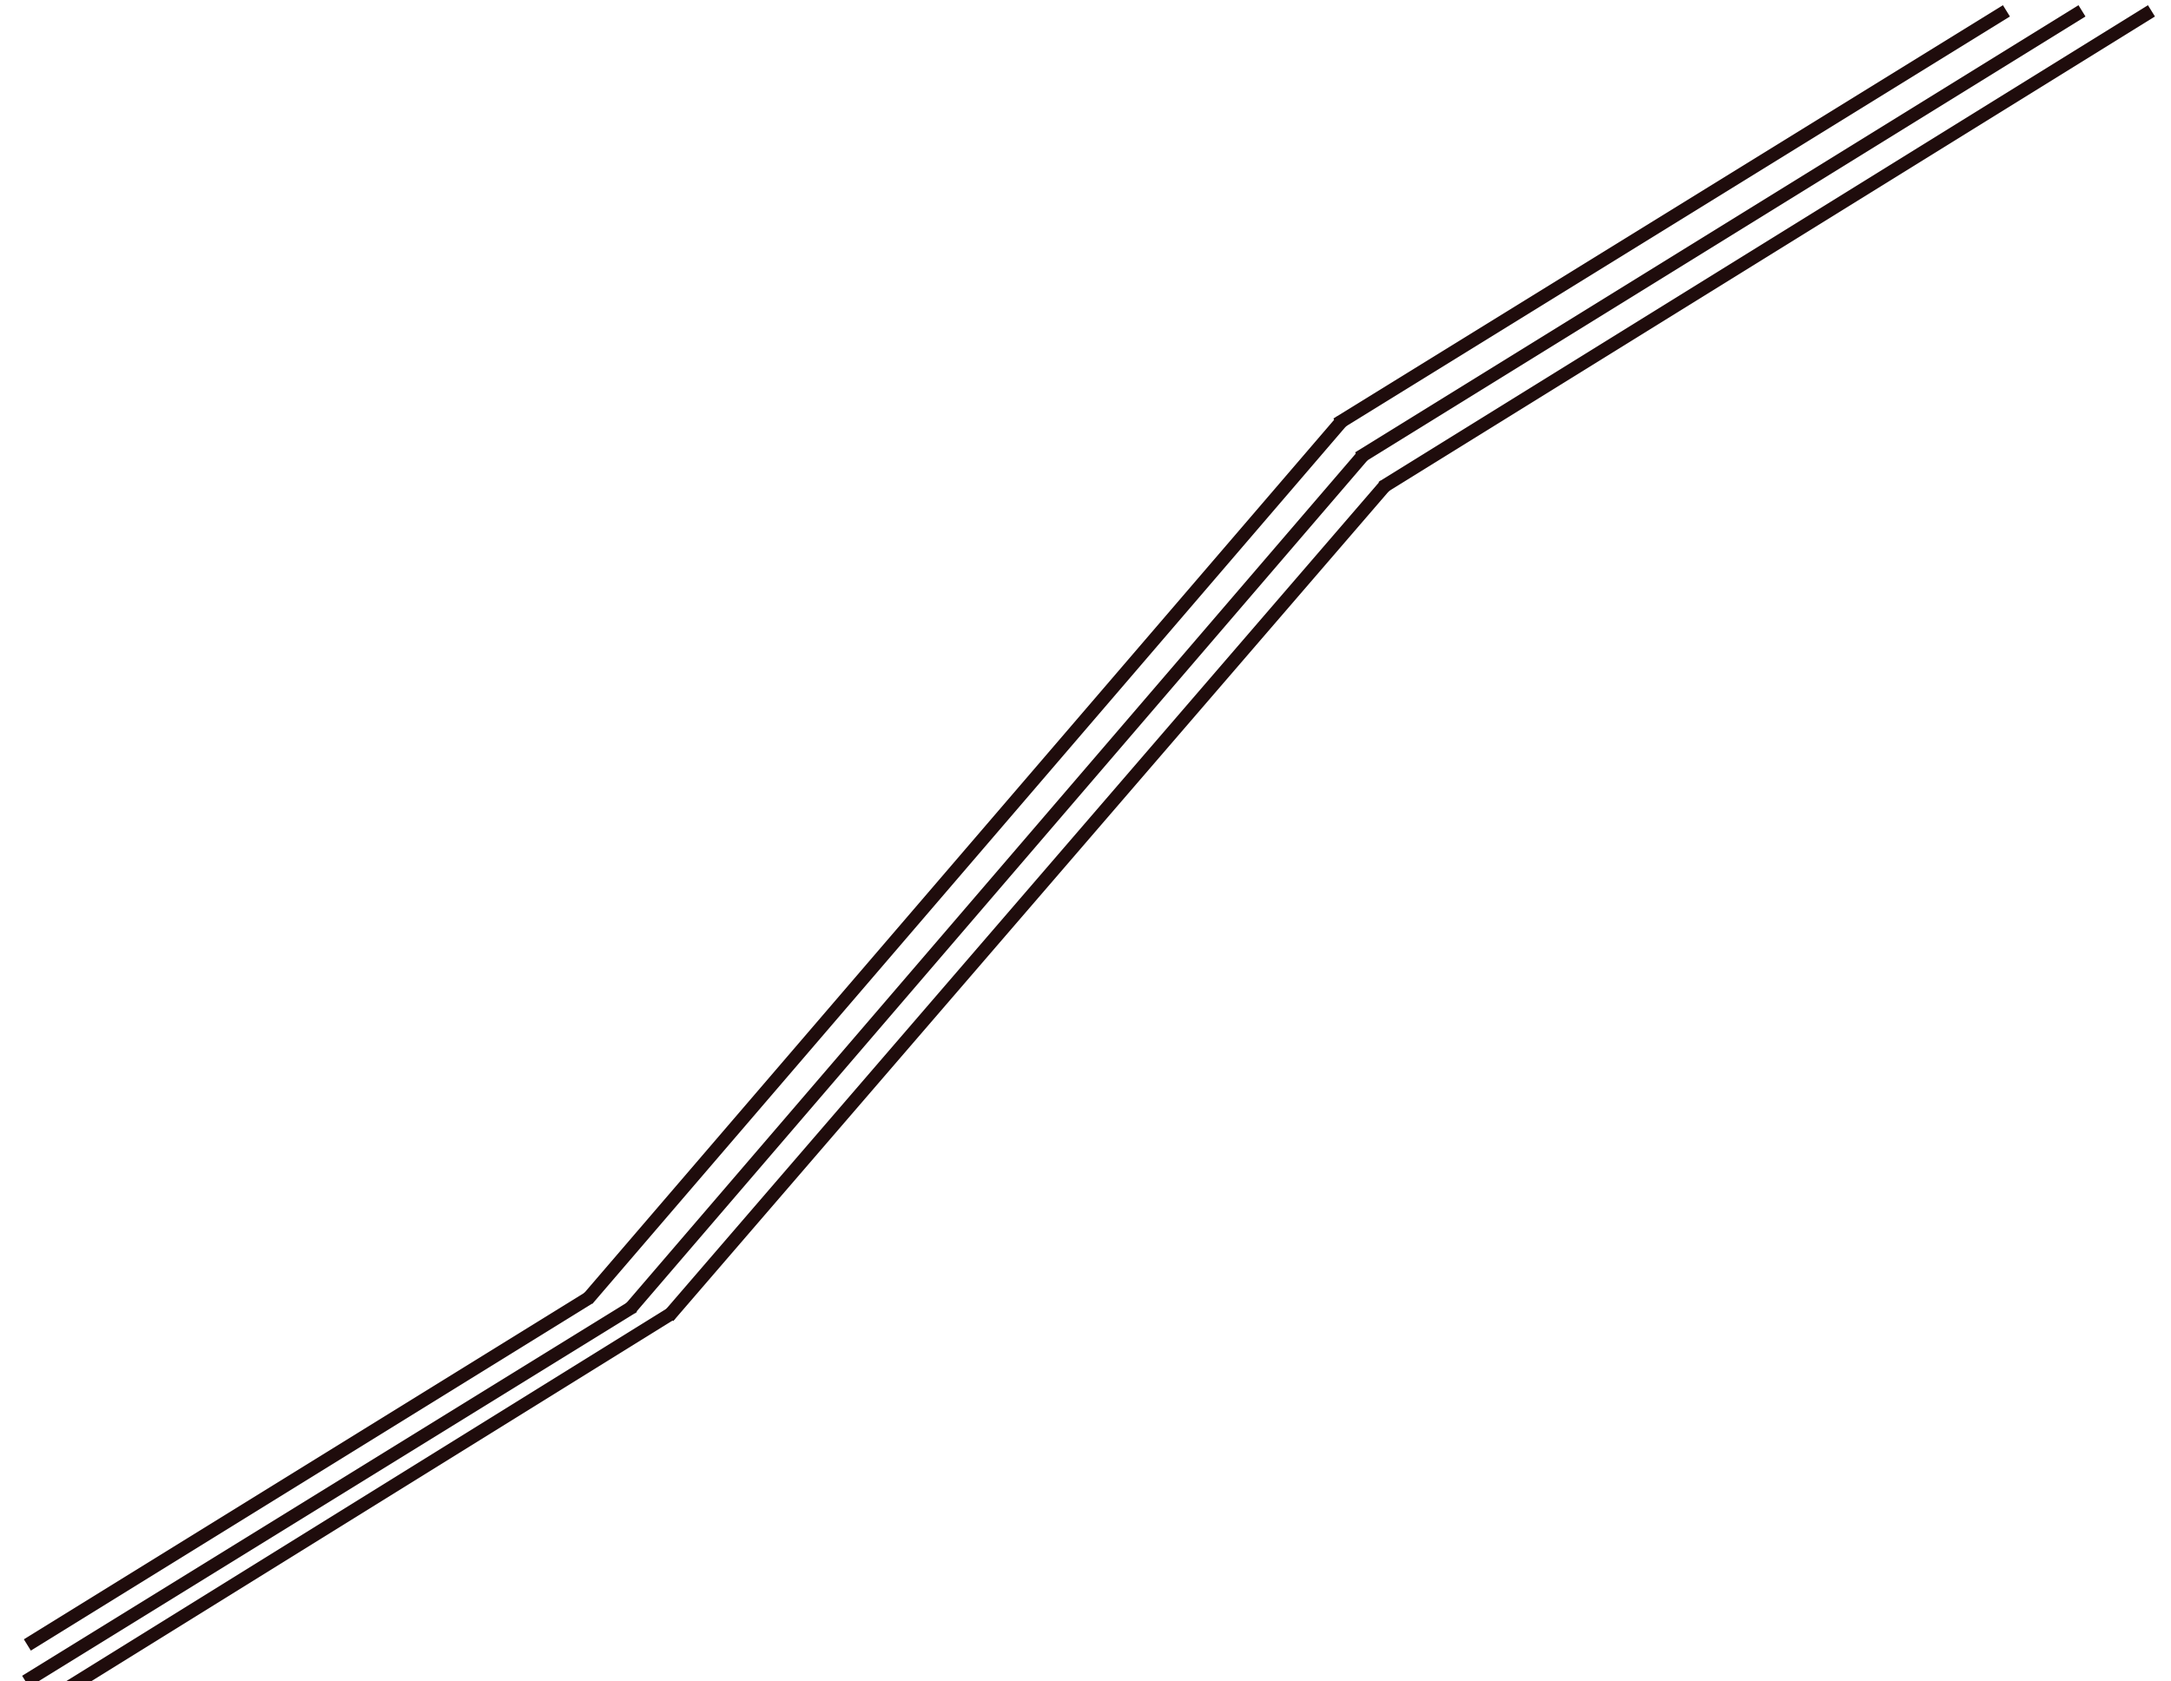
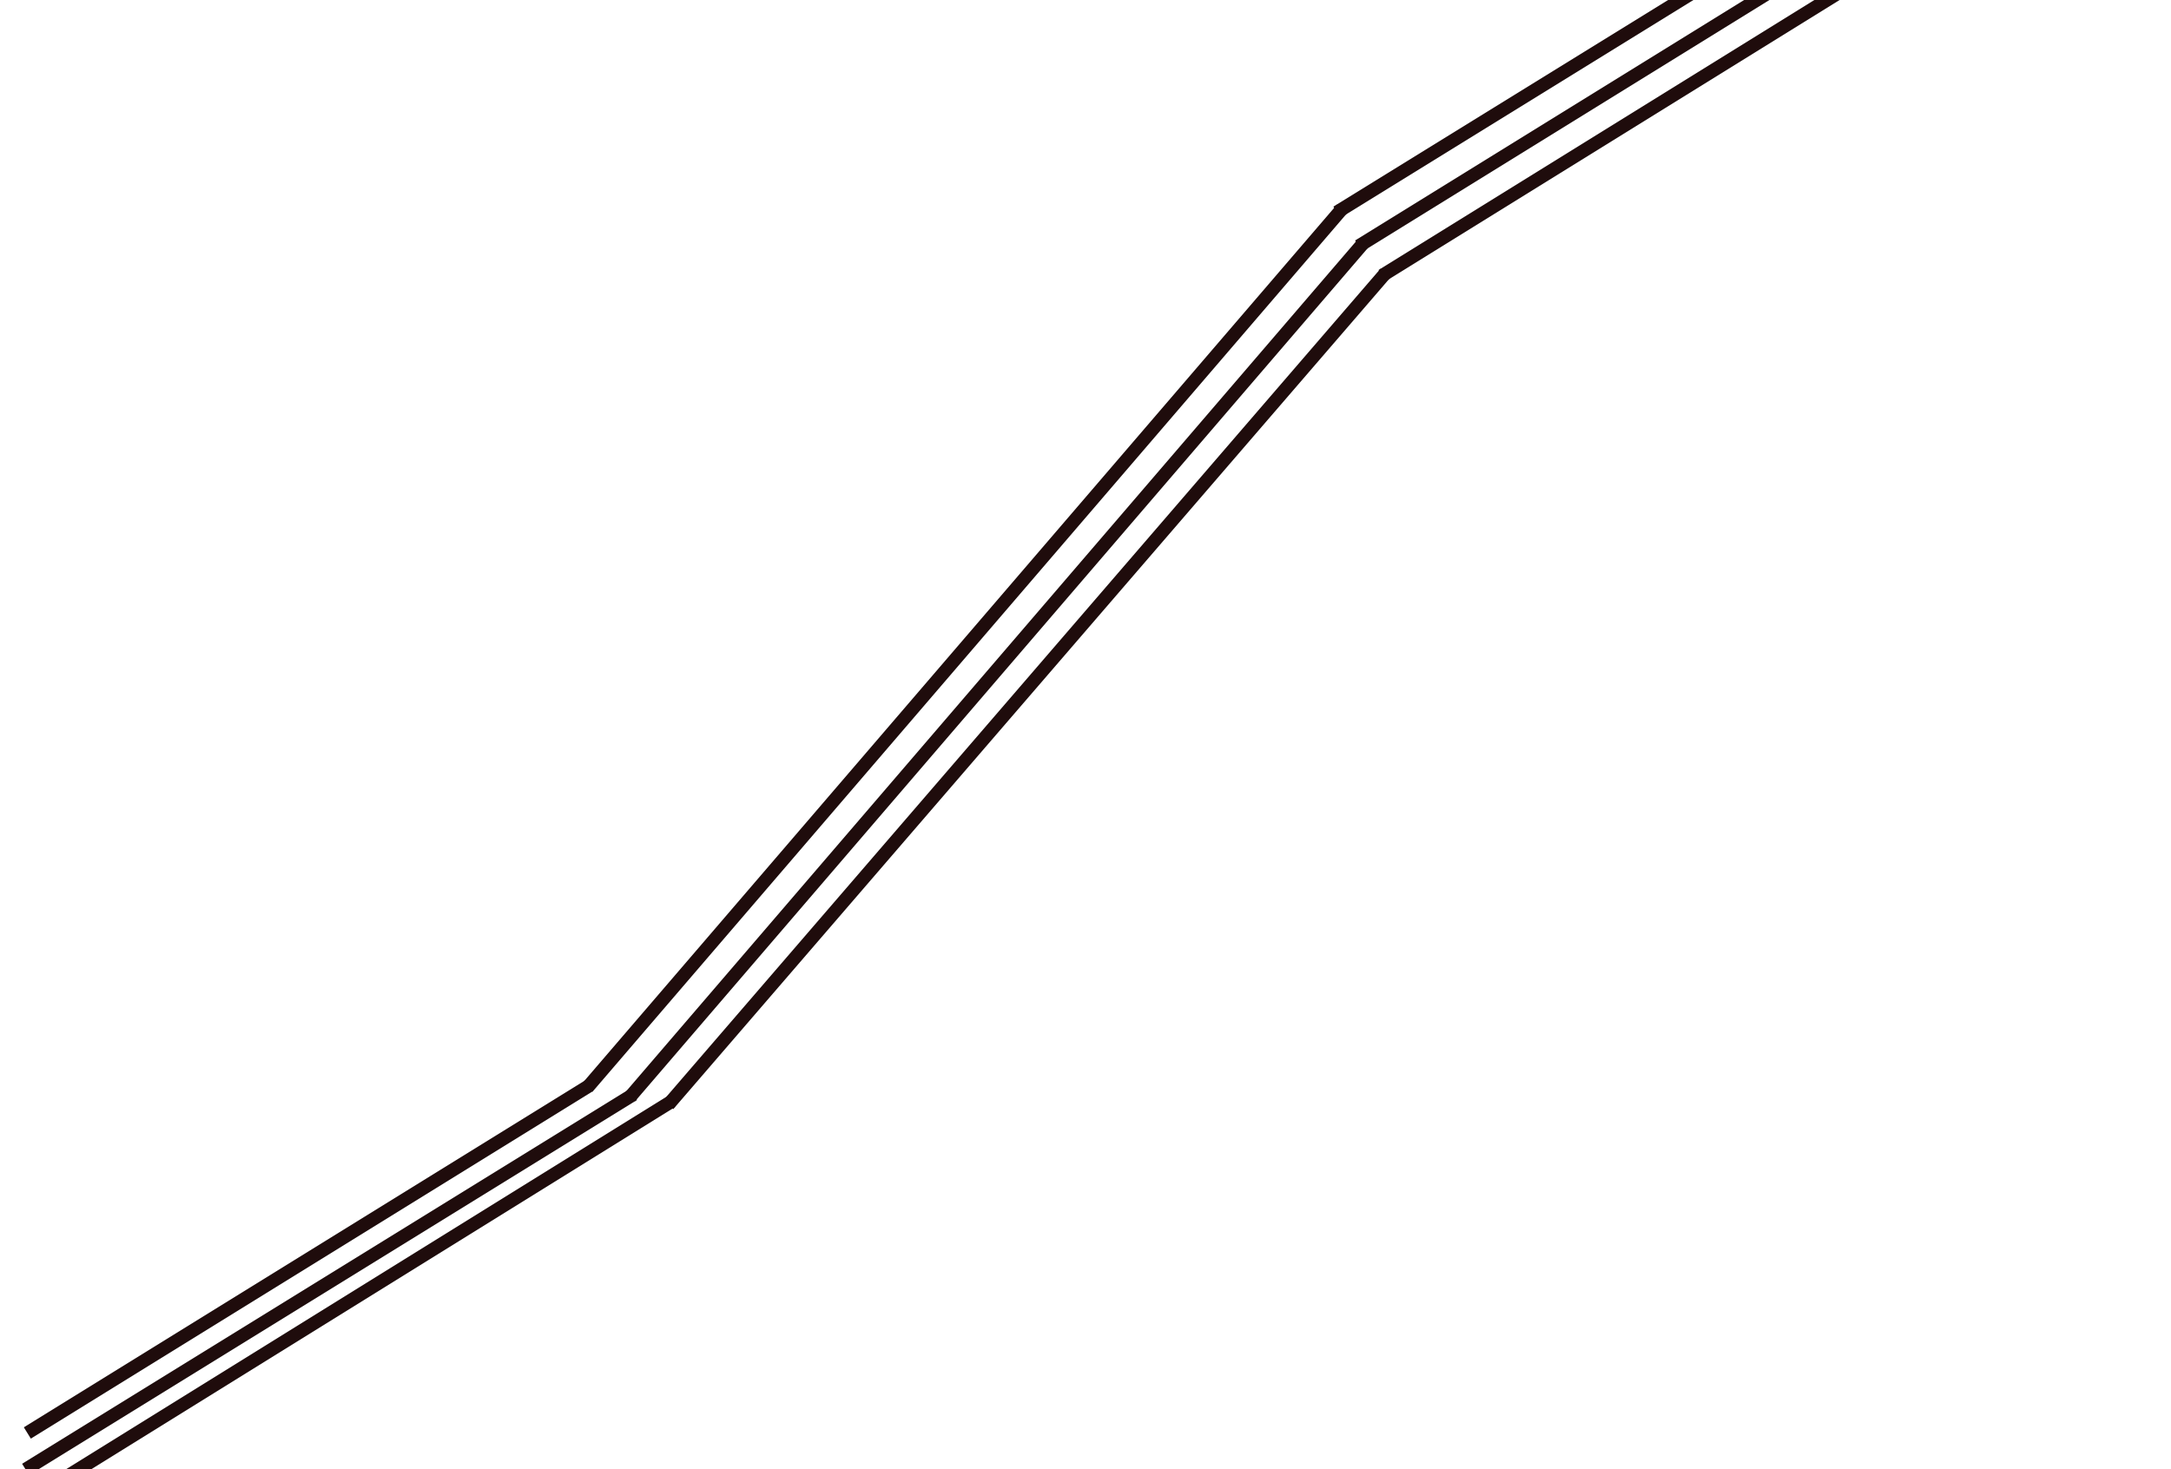
Bug fixes

Changed region(s): [[0.0, 0.0, 0.9984, 1.0]]

diff --git a/index.css b/index.css
@@ -340,9 +340,11 @@
 
 #redlines {
     position: absolute;
-    margin-top: -400px;
+    margin-top: -100px;
     transform: scale(1.1) rotate(5deg);
-    z-index: -5;
+    z-index: -40;
+    user-select: none;
+    -webkit-user-drag: none;
 }
 
 
